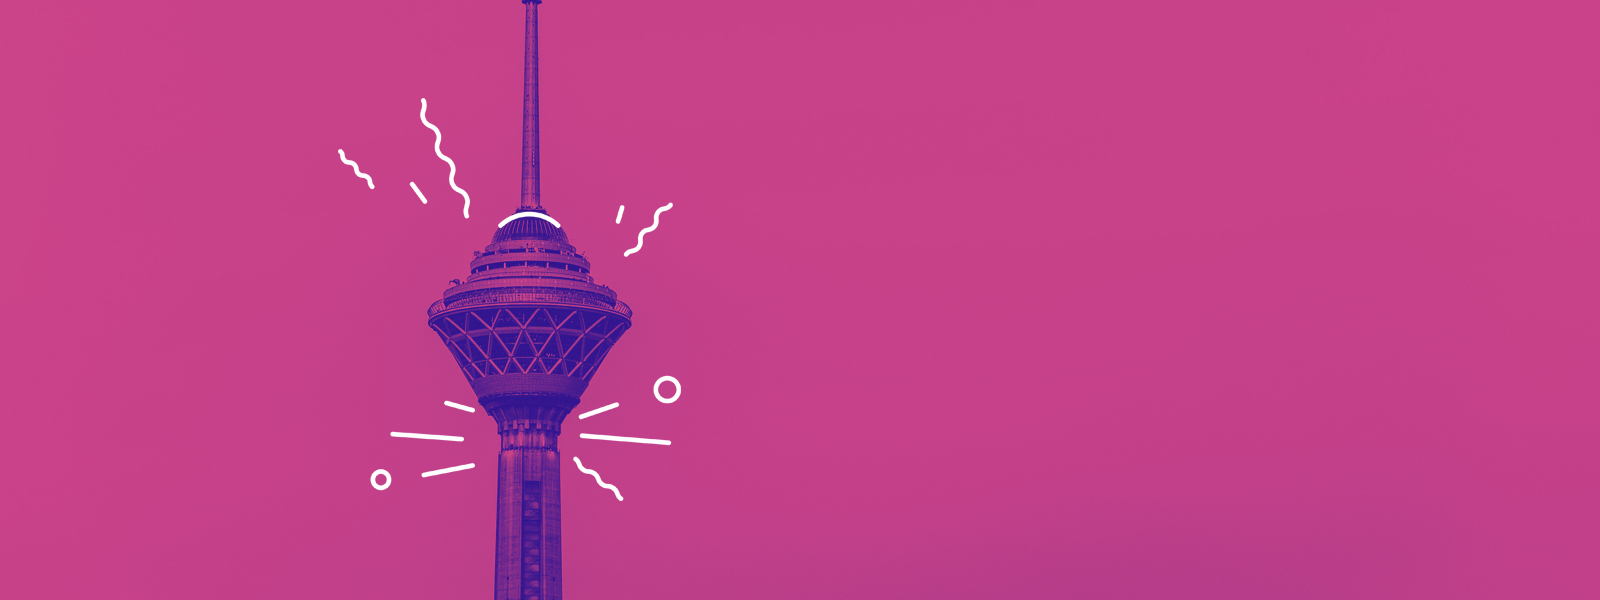
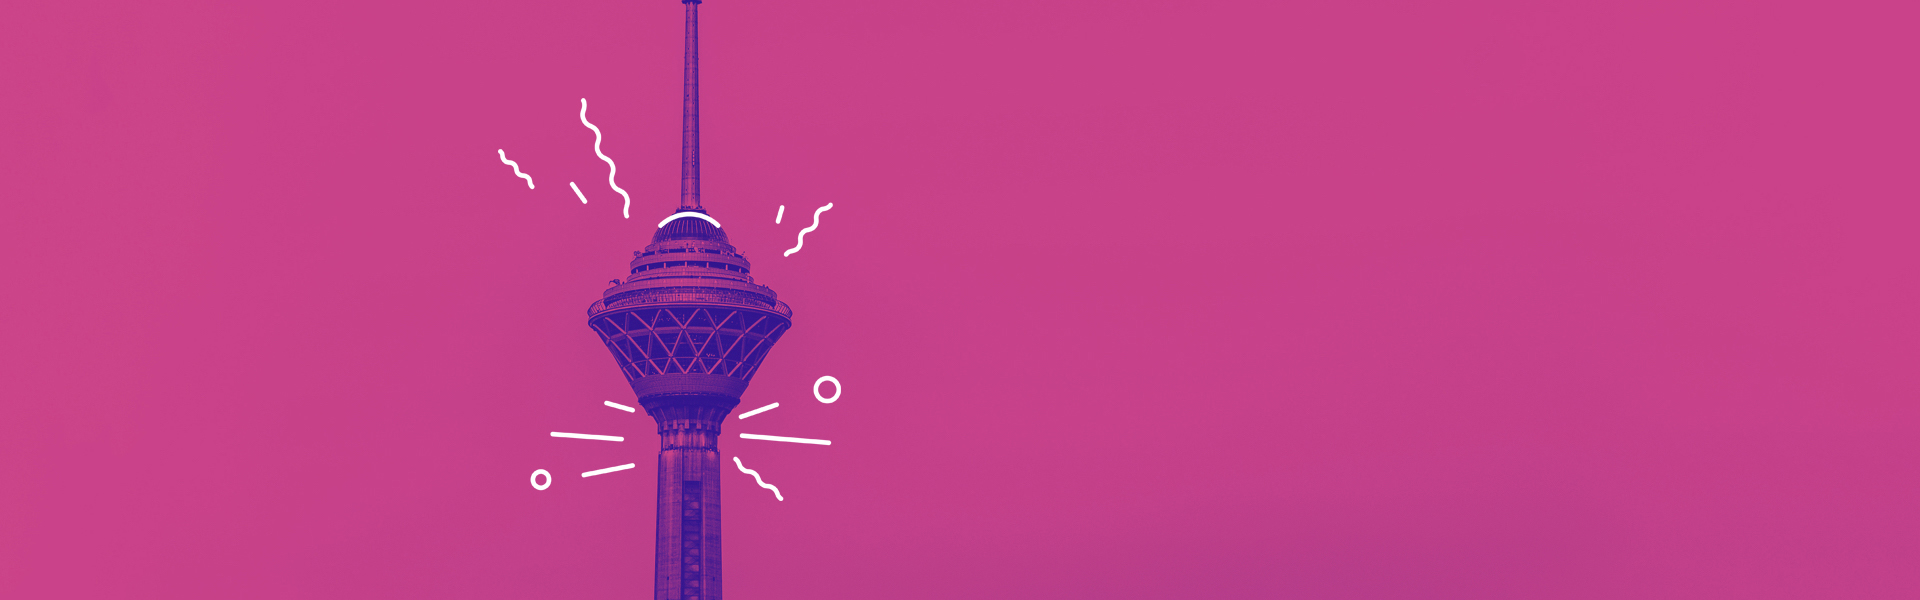
fix intro and footer responsive

Changed region(s): [[0.2188, 0.0, 0.4375, 1.0]]

diff --git a/app/index.html b/app/index.html
@@ -435,13 +435,13 @@
         <div class="footer__subBar">
             <div class="container">
                 <div class="row align-items-center">
-                    <div class="col">
+                    <div class="col-12 col-sm-6 text-center text-sm-right">
                         <img class="footer__subBar__img" 
                         src="images/dribbble-logo-light/dribbble-logo-light-2.png"
                         srcset="images/dribbble-logo-light/dribbble-logo-light-2@2x.png 2x,
                                 images/dribbble-logo-light/dribbble-logo-light-2@3x.png 3x">
                     </div>
-                    <div class="col">
+                    <div class="col-12 col-sm-6 text-center text-sm-left">
                         <p class="footer__subBar__title">Proudly from Tehran, Iran</p>
                     </div>
                 </div>
@@ -450,27 +450,27 @@
         <div class="footer__socialCopyright">
             <div class="container">
                 <div class="row align-items-center">
-                    <div class="col">
+                    <div class="col-12 col-sm-6 text-center text-sm-right">
                         <p class="footer__socialCopyright__title">© 2018 Tehran Dribbble Meetup. All rights reserved.</p>
                     </div>
-                    <div class="col">
-                        <ul class="navbar-nav align-items-center">
-                            <li class="nav-item">
-                                <a class="nav-link" href="#">
+                    <div class="col-12 col-sm-6 text-center text-sm-left">
+                        <ul class="footer__socialCopyright__wrapper align-items-center">
+                            <li class="footer__socialCopyright__wrapper__item">
+                                <a class="footer__socialCopyright__wrapper__link" href="#">
                                     <img src="images/dribbble.svg" alt="">
                                 </a>
-                            <li class="nav-item">
-                                <a class="nav-link" href="#">
+                            <li class="footer__socialCopyright__wrapper__item">
+                                <a class="footer__socialCopyright__wrapper__link" href="#">
                                     <img src="images/twitter.svg" alt="">
                                 </a>
                             </li>
-                            <li class="nav-item">
-                                <a class="nav-link" href="#">
+                            <li class="footer__socialCopyright__wrapper__item">
+                                <a class="footer__socialCopyright__wrapper__link" href="#">
                                     <img src="images/insta.svg" alt="">
                                 </a>
                             </li>
-                            <li class="nav-item">
-                                <a class="nav-link" href="#">
+                            <li class="footer__socialCopyright__wrapper__item">
+                                <a class="footer__socialCopyright__wrapper__link" href="#">
                                         <img src="images/telegram.svg" alt="">
                                 </a>
                             </li>

diff --git a/app/styles/scss/layout/_footer.scss b/app/styles/scss/layout/_footer.scss
@@ -5,7 +5,6 @@
 }
 .footer__subBar__title{
     color: $white;
-    text-align: left;
     margin: 0;
     font-family: "Gilroy" !important;
     font-weight: 400;
@@ -13,14 +12,22 @@
 }
 
 .footer__socialCopyright{
-     background-color: $lighBlack;
+    background-color: $lighBlack;
+    padding: 30PX 0;
 }
 .footer__socialCopyright__title{
     color: $white;
-    text-align: right;
     margin: 0;
     font-family: "Gilroy" !important;
     font-weight: 400;
     font-size: 12px !important;
     direction: ltr;
+}
+.footer__socialCopyright__wrapper__item{
+    display: inline-block;
+    margin-right: 25px;
+}
+.footer__socialCopyright__wrapper__link{
+    width: 21px;
+    height: 21px;
 }

diff --git a/app/styles/scss/general/_responsive.scss b/app/styles/scss/general/_responsive.scss
@@ -1,5 +1,17 @@
 
-@media (min-width: 576px) {  }
+
+
+@media (max-width: 575px) { 
+    .footer__subBar__title{
+        margin-top: 10px;
+    }
+    .footer__socialCopyright__title{
+        margin-bottom: 20px;
+    }
+ }
+@media (min-width: 576px) { 
+
+ }
 
 // Medium devices (tablets, 768px and up)
 @media (min-width: 768px)and(max-width:991px) {
@@ -38,7 +50,7 @@
   }
 @media (min-width: 1600px) {
     .itro__img{
-        right: 20%;
+        right: 25%;
     }
     .map__location{
         right: 20%

diff --git a/app/styles/scss/general/_reset.scss b/app/styles/scss/general/_reset.scss
@@ -11,7 +11,6 @@ body, div, span, object, iframe, h1, h2, h3, h4, h5, h6, p, blockquote, pre, a, 
   font-style: inherit;
   font-size: 100%;
   font-family: inherit;
-  vertical-align: baseline;
 }
 
 article, aside, dialog, figure, footer, header, hgroup, nav, section {

diff --git a/app/fonts/Gilroy-ExtraBold/demo.html b/app/fonts/Gilroy-ExtraBold/demo.html
@@ -32,7 +32,6 @@
             border: 0;
             font-size: 100%;
             font: inherit;
-            vertical-align: baseline;
         }
         /* HTML5 display-role reset for older browsers */
         article, aside, details, figcaption, figure,

diff --git a/app/fonts/Gilroy-medium/demo.html b/app/fonts/Gilroy-medium/demo.html
@@ -32,7 +32,6 @@
             border: 0;
             font-size: 100%;
             font: inherit;
-            vertical-align: baseline;
         }
         /* HTML5 display-role reset for older browsers */
         article, aside, details, figcaption, figure,
